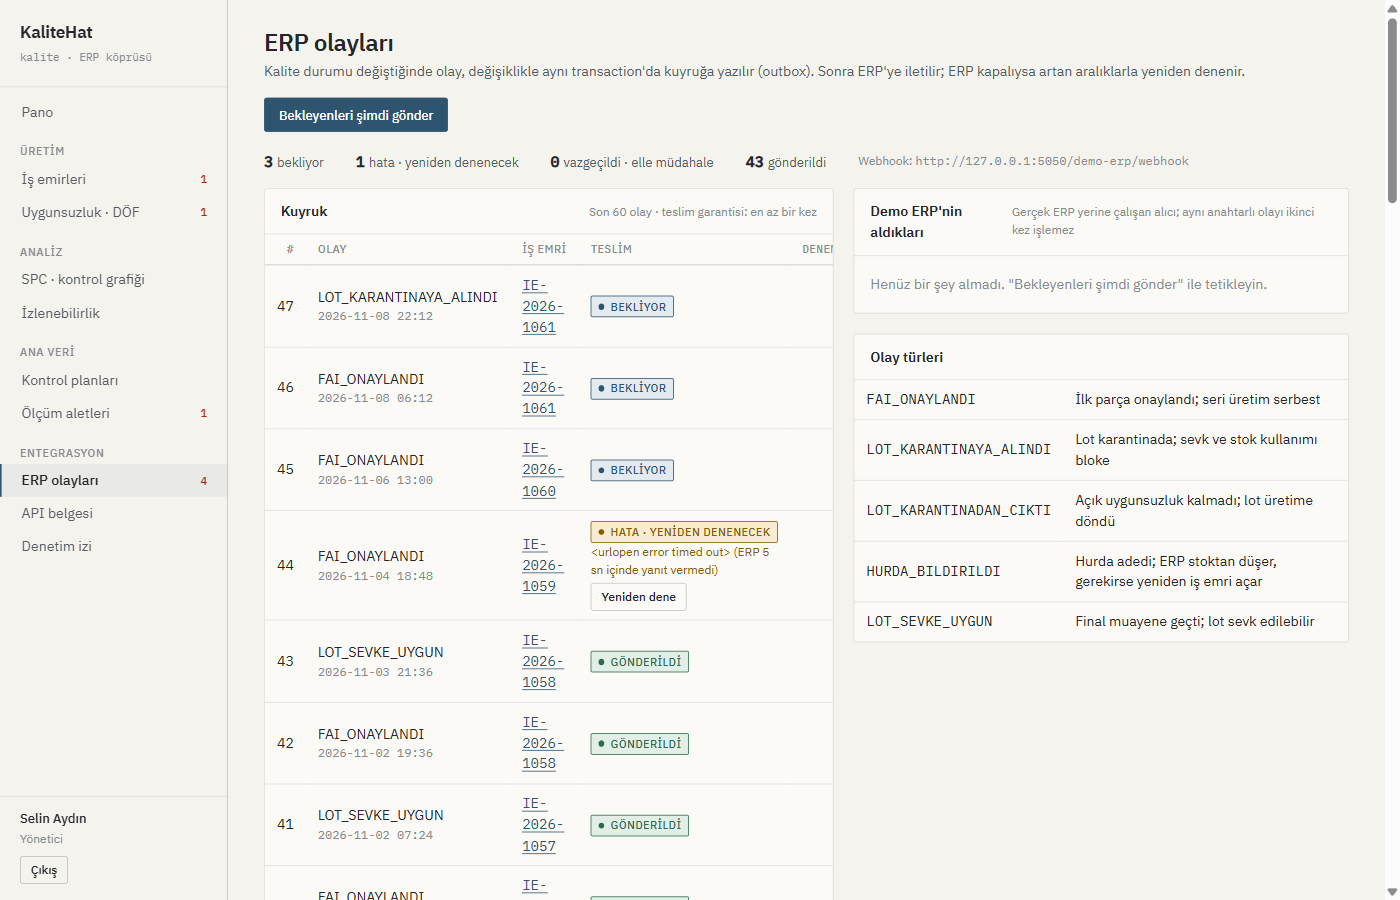
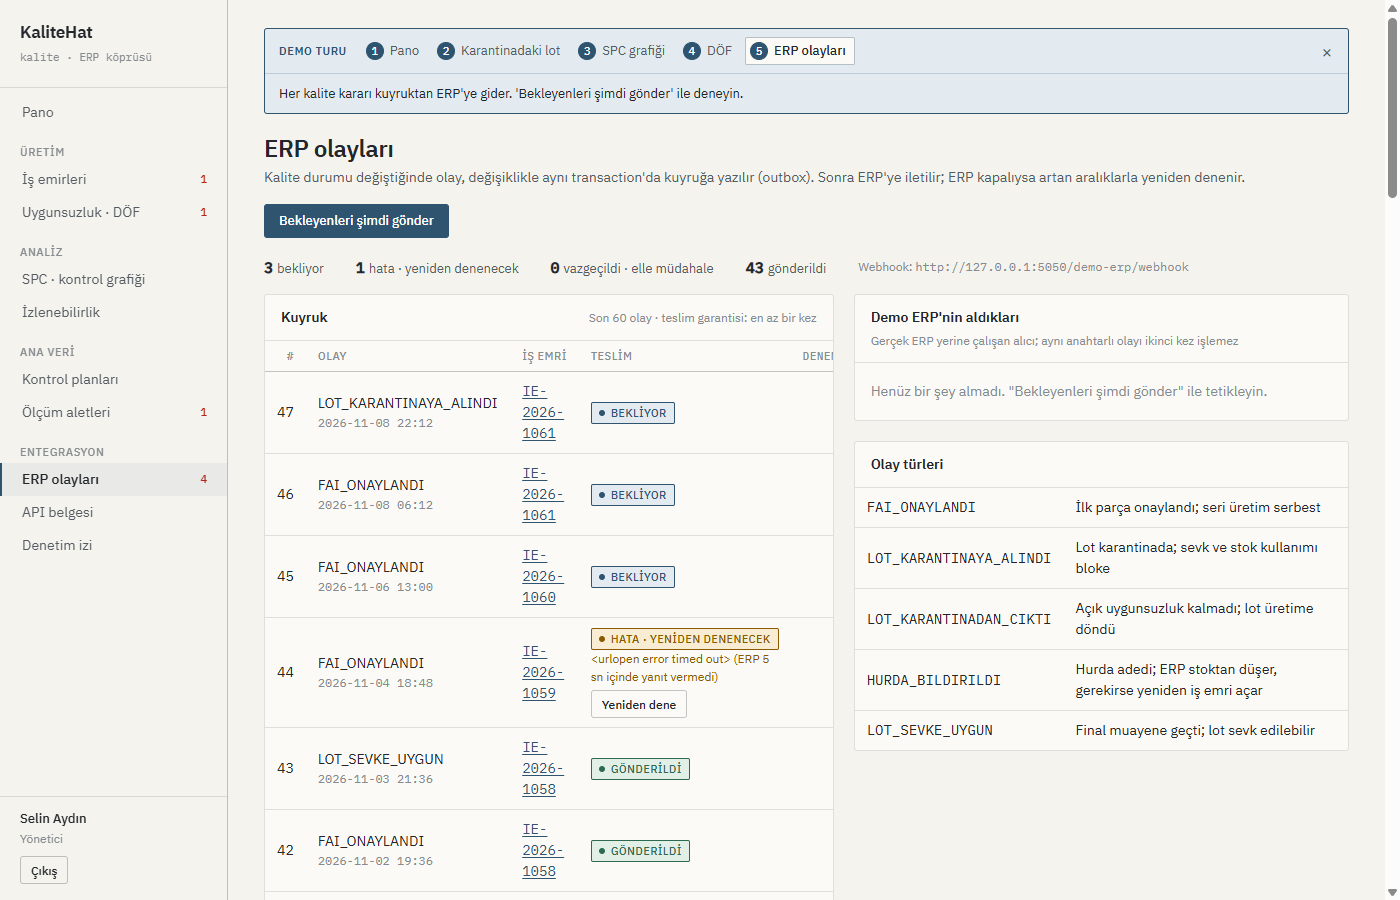
Demo turu ve telefon görünümü
- Demo modunda her ekranın üstünde 5 adımlık tur: pano, karantinadaki lot, SPC, DÖF, ERP olayları
- Telefonda yana taşma giderildi; menü tek satır kayan şerit, tablolar kendi içinde kayar

diff --git a/kalitehat/static/stil.css b/kalitehat/static/stil.css
@@ -46,7 +46,7 @@ p { text-wrap: pretty; }
 :focus-visible { outline: 2px solid var(--celik); outline-offset: 2px; }
 
 /* ---------- iskelet: antet sütunu + içerik ---------- */
-.iskelet { display: grid; grid-template-columns: 228px 1fr; min-height: 100vh; }
+.iskelet { display: grid; grid-template-columns: 228px minmax(0, 1fr); min-height: 100vh; }
 .antet { border-right: 1px solid var(--cizgi-guclu); padding: 20px 0 16px; display: flex; flex-direction: column; position: sticky; top: 0; height: 100vh; }
 .marka { padding: 0 20px 20px; border-bottom: 1px solid var(--cizgi); margin-bottom: 8px; text-decoration: none; color: var(--grafit); display: block; }
 .marka b { font-size: 17px; font-weight: 600; letter-spacing: -.2px; display: block; }
@@ -72,7 +72,7 @@ p { text-wrap: pretty; }
 
 /* ---------- yüzeyler ---------- */
 .pafta { background: var(--pafta); border: 1px solid var(--cizgi); border-radius: var(--r); margin-bottom: 20px; }
-.pafta > header { display: flex; justify-content: space-between; align-items: baseline; gap: 12px; padding: 12px 16px; border-bottom: 1px solid var(--cizgi); }
+.pafta > header { display: flex; flex-wrap: wrap; justify-content: space-between; align-items: baseline; gap: 4px 12px; padding: 12px 16px; border-bottom: 1px solid var(--cizgi); }
 .pafta > header h2 { font-size: 14px; font-weight: 600; }
 .pafta > header .not { color: var(--silik); font-size: 12px; }
 .pafta > .govde { padding: 16px; }
@@ -206,13 +206,43 @@ label { display: block; font: 500 12px var(--sans); color: var(--kursun); margin
 pre.kod { background: #22262a; color: #dfe3e6; padding: 12px 14px; border-radius: var(--r); overflow-x: auto; font: 12px/1.6 var(--mono); margin: 0; }
 details summary { cursor: pointer; }
 
-@media (max-width: 1100px) { .iki { grid-template-columns: 1fr; } .kunye { grid-template-columns: repeat(2, 1fr); } }
+/* ---------- demo turu ---------- */
+.demo-tur { border: 1px solid var(--celik); border-radius: var(--r); background: var(--celik-acik); margin-bottom: 20px; }
+.demo-tur-ust { display: flex; align-items: center; gap: 14px; padding: 8px 8px 8px 14px; border-bottom: 1px solid rgba(47,84,112,.2); }
+.demo-tur-ust > b { font: 600 11px var(--sans); text-transform: uppercase; letter-spacing: .6px; color: var(--celik); white-space: nowrap; }
+.demo-tur ol { list-style: none; margin: 0; padding: 0; display: flex; gap: 4px; flex: 1; overflow-x: auto; scrollbar-width: none; }
+.demo-tur ol::-webkit-scrollbar { display: none; }
+.demo-tur ol a { display: flex; align-items: center; gap: 6px; padding: 4px 9px 4px 5px; border-radius: 2px; color: var(--kursun); text-decoration: none; font-size: 13px; white-space: nowrap; }
+.demo-tur ol a:hover { color: var(--grafit); background: rgba(47,84,112,.08); }
+.demo-tur ol a span { width: 18px; height: 18px; border-radius: 50%; border: 1px solid var(--celik); color: var(--celik); display: grid; place-items: center; font: 500 11px var(--mono); }
+.demo-tur ol a.gecti span { background: var(--celik); color: #fff; }
+.demo-tur ol a.simdi { color: var(--grafit); font-weight: 500; background: var(--pafta); box-shadow: inset 0 0 0 1px rgba(47,84,112,.35); }
+.demo-tur ol a.simdi span { background: var(--celik); color: #fff; }
+.demo-tur-kapat { all: unset; cursor: pointer; margin-left: auto; width: 26px; height: 26px; display: grid; place-items: center; font-size: 18px; color: var(--kursun); border-radius: 2px; flex: none; }
+.demo-tur-kapat:hover { background: rgba(47,84,112,.1); color: var(--grafit); }
+.demo-tur-kapat:focus-visible, .demo-tur-ac:focus-visible { outline: 2px solid var(--celik); outline-offset: 2px; }
+.demo-tur-alt { display: flex; align-items: center; justify-content: space-between; gap: 8px 16px; padding: 10px 14px; flex-wrap: wrap; }
+.demo-tur-alt p { margin: 0; color: var(--grafit); font-size: 13px; }
+.demo-tur[hidden], .demo-tur-ac[hidden] { display: none; }
+.demo-tur-ac { all: unset; cursor: pointer; float: right; margin: -12px 0 8px 12px; font: 500 12px var(--sans); color: var(--celik); border: 1px solid var(--celik); border-radius: 2px; padding: 3px 9px; background: var(--celik-acik); }
+
+@media (max-width: 1100px) { .iki { grid-template-columns: minmax(0, 1fr); } .kunye { grid-template-columns: repeat(2, 1fr); } }
 @media (max-width: 860px) {
-  .iskelet { grid-template-columns: 1fr; }
-  .antet { position: static; height: auto; flex-direction: row; flex-wrap: wrap; padding: 12px 16px; align-items: center; }
-  .antet nav { display: flex; flex-wrap: wrap; } .antet .grup { display: none; } .antet nav a { padding: 6px 10px; border-left: 0; }
-  .marka { border: 0; padding: 0 12px 0 0; margin: 0; } .oturum { border: 0; padding: 0; }
+  .iskelet { grid-template-columns: minmax(0, 1fr); }
+  /* telefonda: üstte marka + oturum, altında yana kayan tek satır menü */
+  .antet { position: static; height: auto; flex-direction: row; flex-wrap: wrap; justify-content: space-between; align-items: center; padding: 12px 16px 0; border-right: 0; border-bottom: 1px solid var(--cizgi-guclu); }
+  .antet nav { order: 3; flex: 1 0 100%; display: flex; flex-wrap: nowrap; overflow-x: auto; margin: 10px -16px 0; padding: 0 8px; scrollbar-width: none; }
+  .antet nav::-webkit-scrollbar { display: none; }
+  .antet .grup { display: none; }
+  .antet nav a { flex: none; gap: 4px; padding: 8px 10px 9px; border-left: 0; border-bottom: 2px solid transparent; white-space: nowrap; }
+  .antet nav a.aktif { border-bottom-color: var(--celik); background: transparent; }
+  .marka { border: 0; padding: 0; margin: 0; }
+  .oturum { border: 0; padding: 0; display: flex; align-items: center; gap: 10px; }
+  .oturum b { font-size: 12px; } .oturum span { display: none; } .oturum form { margin: 0; }
   .icerik { padding: 20px 16px 40px; }
+  .pafta > table, .pafta > .govde > table, .pafta > form > table { display: block; overflow-x: auto; }
+  .ust h1 { font-size: 21px; }
+  .demo-tur-ust { flex-wrap: wrap; } .demo-tur ol { order: 3; flex: 1 0 100%; }
   .akis-seridi { grid-template-columns: repeat(2, 1fr); } .akis-seridi a::after { display: none; }
   .dikkat li { grid-template-columns: 1fr; gap: 4px; }
 }

diff --git a/kalitehat/templates/base.html b/kalitehat/templates/base.html
@@ -42,12 +42,44 @@
     {% endif %}
   </aside>
   <main class="icerik">
+    {% set tur = demo_turu() %}
+    {% if tur %}
+    {% set i = tur.simdi if tur.simdi is not none else -1 %}
+    <section class="demo-tur" id="tur" aria-label="Demo turu">
+      <div class="demo-tur-ust">
+        <b>Demo turu</b>
+        <ol>
+          {% for ad, _, url, _ in tur.adimlar %}
+          <li><a href="{{ url }}" class="{{ 'simdi' if loop.index0 == i }}{{ ' gecti' if loop.index0 < i }}"><span>{{ loop.index }}</span>{{ ad }}</a></li>
+          {% endfor %}
+        </ol>
+        <button type="button" class="demo-tur-kapat" aria-label="Turu gizle" title="Turu gizle">×</button>
+      </div>
+      {% set aktif = tur.adimlar[i] if i >= 0 else none %}
+      {% set sonraki = tur.adimlar[i + 1] if i + 1 < tur.adimlar|length else none %}
+      <div class="demo-tur-alt">
+        <p>{% if aktif %}{{ aktif[1] }}{% else %}Kalite kontrol + ERP köprüsü örneği. Veriler kurgusaldır; 5 adımda hikâyeyi gösterir.{% endif %}</p>
+        {% if sonraki %}<a class="btn kucuk" href="{{ sonraki[2] }}">{{ 'Başla' if i < 0 else 'Sonraki' }}: {{ sonraki[0] }} →</a>{% endif %}
+      </div>
+    </section>
+    <button type="button" class="demo-tur-ac" id="tur-ac" hidden>Demo turu</button>
+    {% endif %}
     {% for kat, mesaj in get_flashed_messages(with_categories=true) %}
       <div class="bildirim {{ kat }}" role="status">{{ mesaj }}</div>
     {% endfor %}
     {% block icerik %}{% endblock %}
   </main>
 </div>
+<script>
+(function () {
+  var tur = document.getElementById('tur'), ac = document.getElementById('tur-ac');
+  if (!tur) return;
+  function ayarla(gizli) { tur.hidden = gizli; ac.hidden = !gizli; try { localStorage.setItem('tur-gizli', gizli ? '1' : '0'); } catch (e) {} }
+  try { if (localStorage.getItem('tur-gizli') === '1') { tur.hidden = true; ac.hidden = false; } } catch (e) {}
+  tur.querySelector('.demo-tur-kapat').addEventListener('click', function () { ayarla(true); });
+  ac.addEventListener('click', function () { ayarla(false); });
+})();
+</script>
 {% block js %}{% endblock %}
 </body>
 </html>

diff --git a/kalitehat/web/arayuz.py b/kalitehat/web/arayuz.py
@@ -50,7 +50,35 @@ def sabitler():
         }
 
     return {"DURUM_ADI": DURUM_ADI, "KARAR_ADI": KARAR_ADI, "TUR_ADI": TUR_ADI, "OLAY_DURUM_ADI": OLAY_DURUM_ADI,
-            "OLAY_TURLERI": olaylar.TURLER, "bugun": bugun(), "nav_sayilari": nav_sayilari}
+            "OLAY_TURLERI": olaylar.TURLER, "bugun": bugun(), "nav_sayilari": nav_sayilari, "demo_turu": demo_turu}
+
+
+def demo_turu():
+    """Demo modunda ekranın üstündeki tur: projeyi ilk kez açan kişiye hikâyeyi sırayla gösterir.
+
+    Hikâye son uygunsuzluk üzerinden kurulur (açık olan önce): karantinadaki lot, nedeni olan
+    karakteristiğin SPC grafiği, DÖF kaydı. Demo dışı kurulumda tur gösterilmez.
+    """
+    if not current_app.config["DEMO_ERP"] or request.endpoint == "arayuz.giris":
+        return None
+    ncr = db().execute(
+        "SELECT u.id, ie.no, o.karakteristik_id kid FROM uygunsuzluk u JOIN is_emri ie ON ie.id = u.is_emri_id "
+        "JOIN olcum o ON o.id = u.olcum_id ORDER BY u.durum = 'ACIK' DESC, u.id DESC LIMIT 1"
+    ).fetchone()
+    adimlar = [
+        ("Pano", "Lot akışı ve bugün dikkat isteyen işler tek ekranda.", url_for(".pano"), {"arayuz.pano"}),
+        ("Karantinadaki lot", "Tolerans dışı ölçüm otomatik uygunsuzluk açtı; lot karantinada, ERP'ye bildirildi.",
+         url_for(".is_emri", no=ncr["no"]) if ncr else url_for(".is_emirleri"), {"arayuz.is_emri", "arayuz.is_emirleri"}),
+        ("SPC grafiği", "Sarı noktalar erken uyarı: takım aşınmasını parça tolerans dışına çıkmadan önce gösterdi.",
+         url_for(".spc_grafik", kid=ncr["kid"]) if ncr else url_for(".spc_listesi"), {"arayuz.spc_grafik"}),
+        ("DÖF", "Kök neden, faaliyet ve ürün kararı girilir; son DÖF kapanınca lot karantinadan çıkar.",
+         url_for(".uygunsuzluk", nid=ncr["id"]) if ncr else url_for(".uygunsuzluklar"),
+         {"arayuz.uygunsuzluk", "arayuz.uygunsuzluklar"}),
+        ("ERP olayları", "Her kalite kararı kuyruktan ERP'ye gider. 'Bekleyenleri şimdi gönder' ile deneyin.",
+         url_for(".entegrasyon"), {"arayuz.entegrasyon", "arayuz.api_belgesi"}),
+    ]
+    simdi_ = next((i for i, a in enumerate(adimlar) if request.endpoint in a[3]), None)
+    return {"adimlar": adimlar, "simdi": simdi_}
 
 
 @bp.app_template_filter("tol")

diff --git a/tests/test_web.py b/tests/test_web.py
@@ -163,3 +163,15 @@ def test_olaylar_demo_erpye_gider_ve_tekrar_islenmez(client, app):
 
     assert client.post("/demo-erp/webhook", json={"tur": "x"}).status_code == 401
     assert "FAI_ONAYLANDI" in client.get("/entegrasyon").get_data(as_text=True)
+
+
+def test_demo_turu_son_uygunsuzluga_goturur(client, app):
+    jeton = giris_yap(client, "kal")
+    client.post("/is-emri/IE-1/muayene/FAI",
+                data={"deger_1": "12,05", "alet_1": "1", "deger_2": "40", "alet_2": "2", "csrf": jeton})
+    sayfa = client.get("/").get_data(as_text=True)
+    assert "Demo turu" in sayfa and 'href="/is-emri/IE-1"' in sayfa and 'href="/uygunsuzluk/1"' in sayfa
+    assert "Karantinadaki lot" in client.get("/is-emri/IE-1").get_data(as_text=True)
+
+    app.config["DEMO_ERP"] = False
+    assert "Demo turu" not in client.get("/").get_data(as_text=True)

diff --git a/README.md b/README.md
@@ -124,6 +124,10 @@ ruff check .
 | **ERP olayları** | **API belgesi** |
 | ![Entegrasyon](docs/ekranlar/entegrasyon.png) | ![API](docs/ekranlar/api.png) |
 
+Telefonda da çalışır; demo modunda her ekranın üstünde 5 adımlık bir tur hikâyeyi sırayla gösterir.
+
+<img src="docs/ekranlar/telefon.png" alt="Telefon görünümü" width="300">
+
 ## Lisans
 
 MIT. Arayüz yazı tipi IBM Plex (SIL Open Font License, `kalitehat/static/fontlar/OFL.txt`), grafikler Chart.js (MIT).
